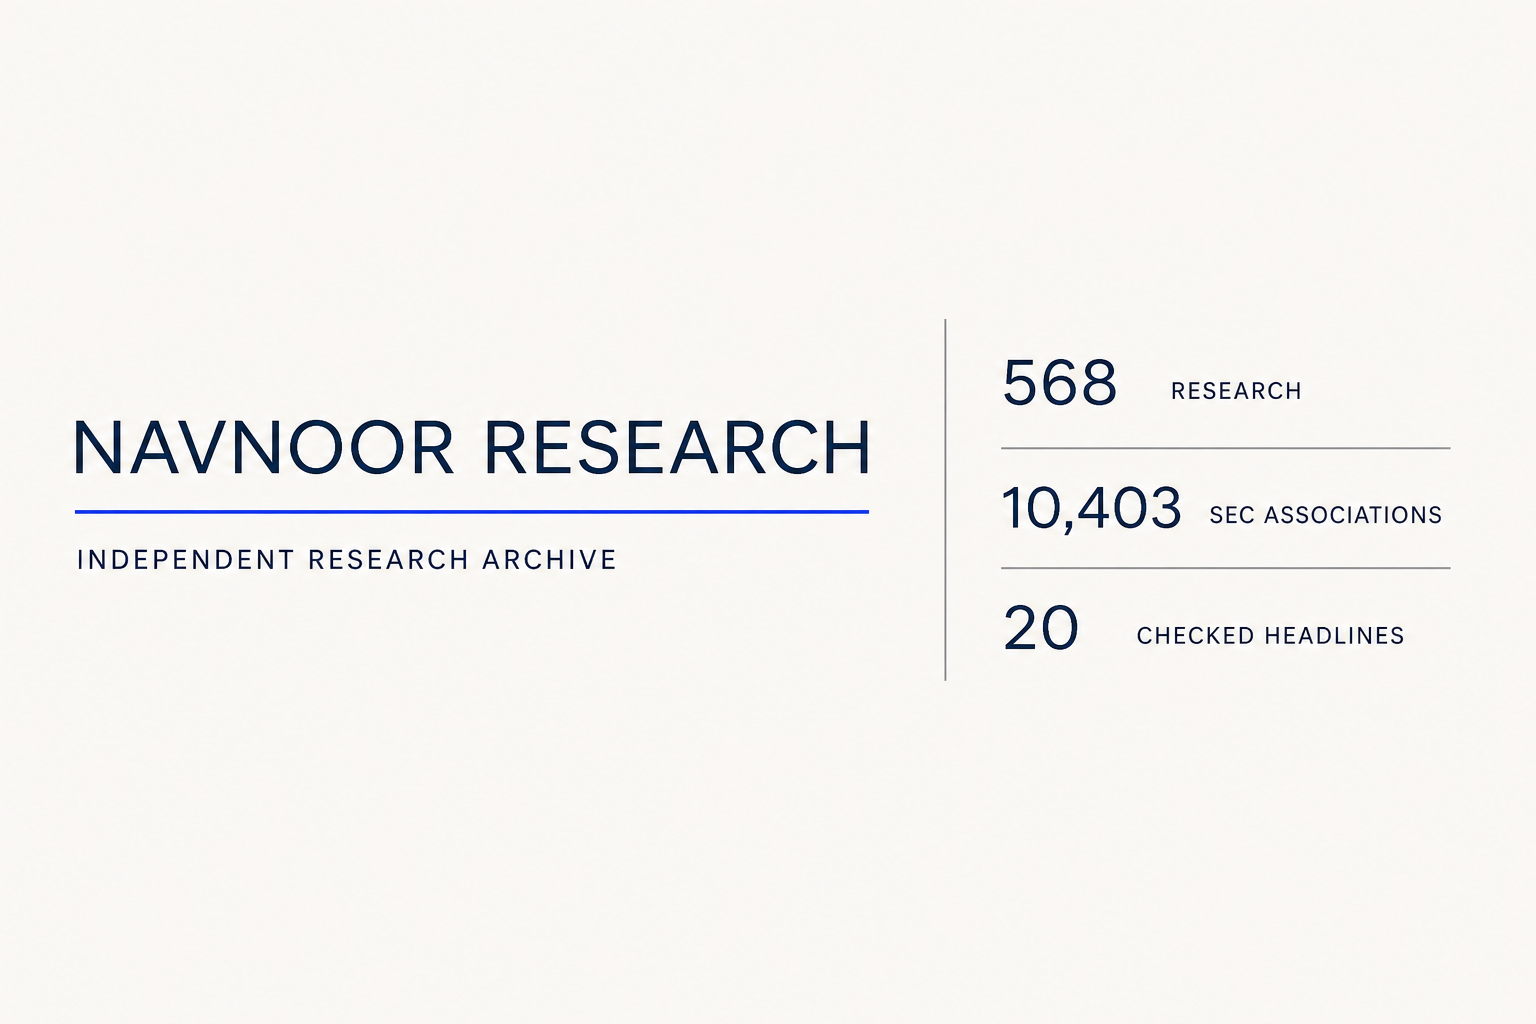
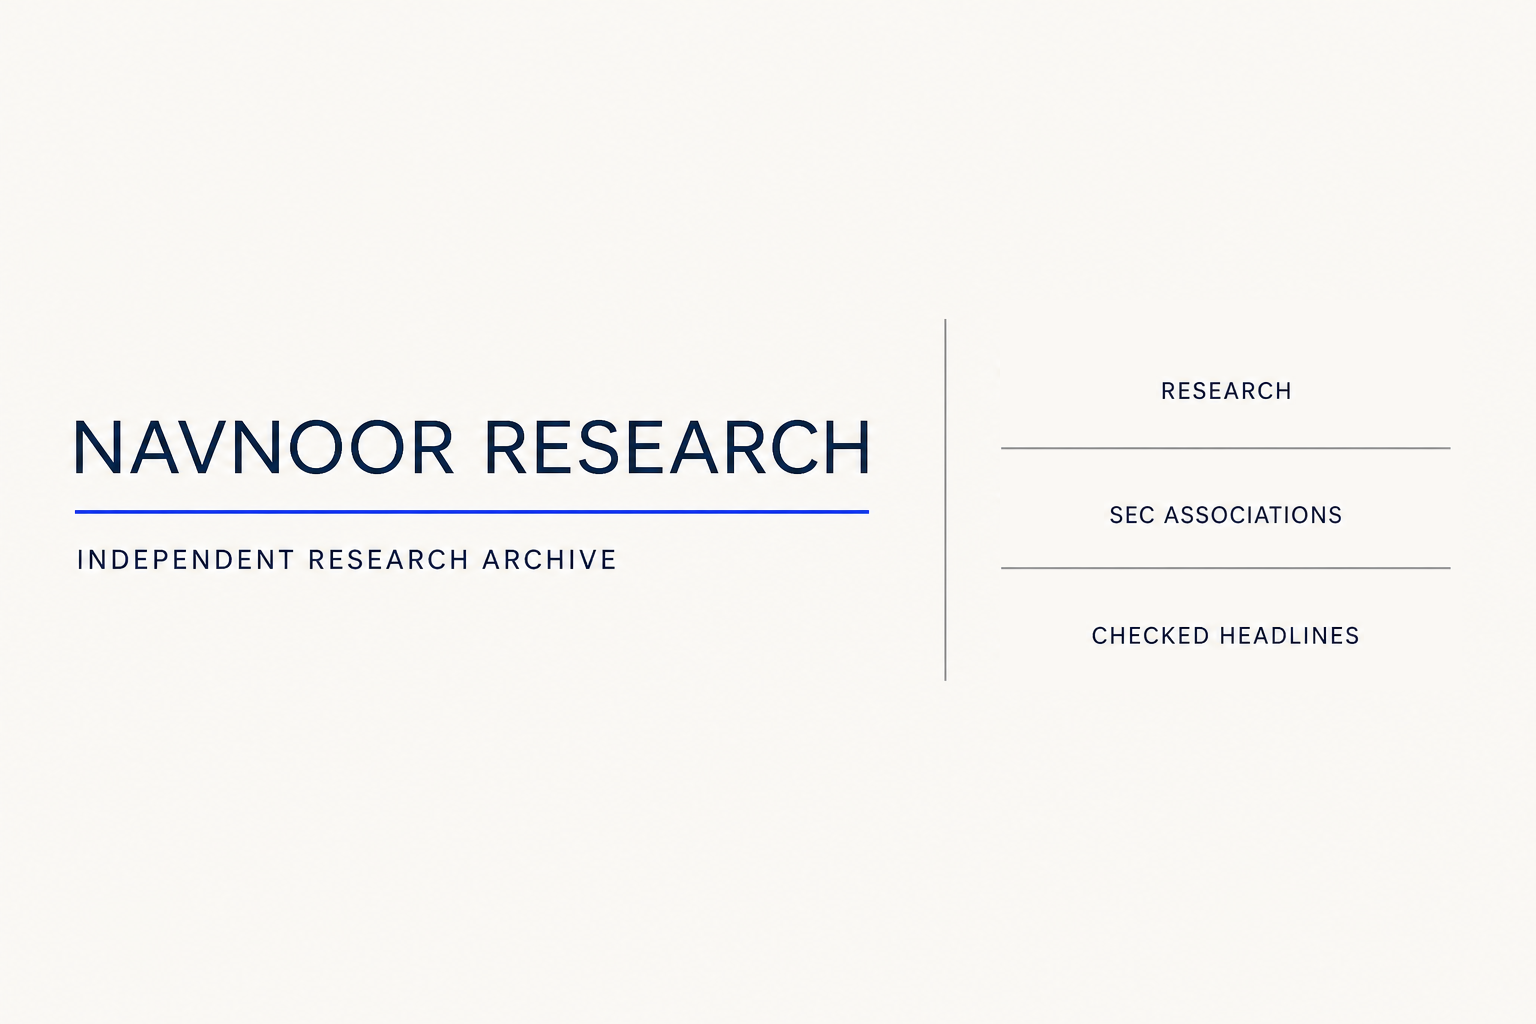
Unpin release counts so the scheduled refresh can succeed
Every "Refresh Checked Data" run has failed since the workflow was
created. The job imports the public archive, which has grown to 569
records, but the corpus size was pinned as a literal 568 in five test
modules and in the social card gate, so a successful data refresh was
guaranteed to fail the build it fed.

Replace the literals with the invariant they were standing in for: the
seed publications, the three manifested counts, and the research
projection must all agree. That is stronger than the magic number and
tolerates growth.

The social card burned 568 / 10,403 / 20 into its pixels and build_site
refused to build unless the live counts matched exactly. Since social
platforms cache a scraped card for days, a number in those pixels could
only ever be stale, so remove the numerals from the card and publish the
exact live counts in og:/twitter:description, which is regenerated every
build and validated against the payload.

Also fix test_refresh_news, which pinned a fixed past ATTEMPTED_AT
against the real news snapshot; it would have broken CI on its own as
soon as a refresh recorded a newer success.

Refresh the seed, SEC, and headline data so the freshness watchdog,
which fails when a source has not been attempted in 12 hours, stops
reporting the staleness caused by the blocked refresh.

diff --git a/test_corpus.py b/test_corpus.py
@@ -136,9 +136,10 @@ class TestSeedTransactionLoading(unittest.TestCase):
             manifest.write_bytes(self.manifest_bytes)
             with pub_patch, manifest_patch:
                 records, document, provenance = corpus.load_index()
-        self.assertEqual(len(records), 568)
+        manifested = json.loads(self.manifest_bytes.decode("utf-8"))["counts"]["records"]
+        self.assertEqual(len(records), manifested)
         self.assertEqual(records, document["records"])
-        self.assertEqual(provenance["counts"]["records"], 568)
+        self.assertEqual(provenance["counts"]["records"], manifested)
 
 
 class TestCurrentCorpus(unittest.TestCase):
@@ -153,14 +154,22 @@ class TestCurrentCorpus(unittest.TestCase):
     )
     NOMURA_BODY_LEAD = "spent five hours manufacturing order book pressure"
 
-    def test_current_seed_is_exactly_568_metadata_records(self):
+    def test_current_seed_agrees_with_every_manifested_metadata_count(self):
         records, document, provenance = corpus.load_index()
-        self.assertEqual(len(records), 568)
-        self.assertEqual(provenance["counts"]["records"], 568)
+        artifact = next(
+            entry
+            for entry in json.loads(
+                paths.SEED_MANIFEST_PATH.read_text(encoding="utf-8")
+            )["artifacts"]
+            if entry["path"] == "seed/publications.json"
+        )
+        self.assertGreater(len(records), 0)
+        self.assertEqual(provenance["counts"]["records"], len(records))
         self.assertEqual(
             provenance["source_snapshot"]["catalog_count"],
-            568,
+            len(records),
         )
+        self.assertEqual(artifact["record_count"], len(records))
         self.assertRegex(document["source_dataset_version"], r"^[0-9a-f]{64}$")
         self.assertRegex(
             provenance["source_snapshot"]["revision"],
@@ -187,7 +196,8 @@ class TestCurrentCorpus(unittest.TestCase):
     def test_import_is_deterministic_newest_first_and_metadata_only(self):
         first, stats = corpus.import_articles()
         second, second_stats = corpus.import_articles()
-        self.assertEqual(len(first), 568)
+        seeded, _document, _provenance = corpus.load_index()
+        self.assertEqual(len(first), len(seeded))
         self.assertEqual(stats, second_stats)
         self.assertEqual(
             [article.to_json() for article in first],
@@ -205,8 +215,8 @@ class TestCurrentCorpus(unittest.TestCase):
             reverse=True,
         )
         self.assertEqual(first, expected)
-        self.assertEqual(stats["read"], 568)
-        self.assertEqual(stats["published"], 568)
+        self.assertEqual(stats["read"], len(seeded))
+        self.assertEqual(stats["published"], len(seeded))
 
 
 if __name__ == "__main__":

diff --git a/test_build_site.py b/test_build_site.py
@@ -15,7 +15,7 @@ from pathlib import Path
 import build_site
 import validate_data
 import validate_release
-from navnoor_research import manifest, render
+from navnoor_research import jsonio, manifest, paths, render
 
 ROOT = Path(__file__).resolve().parent
 REVISION = "a" * 40
@@ -254,7 +254,10 @@ class TestBuild(unittest.TestCase):
         self.assertLess(len(json.dumps(public, separators=(",", ":")).encode()), 1_800_000)
         nvda = [row for row in public["companies"] if row[1] == "NVDA"]
         self.assertTrue(nvda)
-        self.assertEqual(len(research["research"]), 568)
+        self.assertEqual(
+            len(research["research"]),
+            len(jsonio.load(paths.PUBLICATIONS_PATH)["records"]),
+        )
 
     def test_bundle_contains_no_prohibited_source_material(self):
         with tempfile.TemporaryDirectory() as tmp:
@@ -281,15 +284,25 @@ class TestBuild(unittest.TestCase):
                               if not entry["path"].startswith("og-"))
             self.assertLessEqual(interactive, validate_release.INTERACTIVE_BUDGET)
 
-    def test_social_card_bytes_are_bound_to_the_current_release_counts(self):
-        payload = build_site.checked_social_card(build_site.SOCIAL_CARD_COUNTS)
+    def test_social_card_is_the_reviewed_asset_and_states_no_release_counts(self):
+        payload = build_site.checked_social_card()
         self.assertEqual(
             build_site.sha256_hex(payload),
             build_site.SOCIAL_CARD_SHA256,
         )
-        for drifted in ((569, 10_403, 20), (568, 10_404, 20), (568, 10_403, 19)):
-            with self.assertRaisesRegex(ValueError, "do not match"):
-                build_site.checked_social_card(drifted)
+        self.assertFalse(hasattr(build_site, "SOCIAL_CARD_COUNTS"))
+
+    def test_shared_description_states_the_exact_live_release_counts(self):
+        facts = render.describe(569, 10_403, 20)
+        self.assertEqual(
+            facts,
+            "569 source-linked research records, 10,403 SEC company/ticker "
+            "associations, and 20 checked headlines from reviewed public sources.",
+        )
+        html = render.render(TestRender.ASSETS, REVISION, 569, 10_403, 20, 2, 1)
+        for shared in ('property="og:description"', 'name="twitter:description"'):
+            self.assertIn(f'<meta {shared} content="{facts}">', html)
+        self.assertIn(f'<meta name="description" content="{render.DESCRIPTION}">', html)
 
     def test_cli_has_no_output_path_control(self):
         with tempfile.TemporaryDirectory() as tmp:

diff --git a/validate_release.py b/validate_release.py
@@ -6,11 +6,12 @@ from __future__ import annotations
 import argparse
 import re
 import sys
+from html import escape
 from typing import Any
 
 import build_site
 import validate_data
-from navnoor_research import jsonio, manifest, paths
+from navnoor_research import jsonio, manifest, paths, render
 from navnoor_research.fingerprint import sha256_hex
 
 TOTAL_BUDGET = 2_500_000
@@ -167,13 +168,14 @@ def validate(expected_revision: str) -> tuple[dict[str, Any], list[str]]:
             expected_counts["headlines"],
         ]:
             problems.append("institutional index ledger counts are not the exact payload counts")
-        social_counts = (
+        expected_facts = render.describe(
             expected_counts["research"],
             expected_counts["companies"],
             expected_counts["headlines"],
         )
-        if social_counts != build_site.SOCIAL_CARD_COUNTS:
-            problems.append("reviewed social-card facts do not match the release counts")
+        for shared in ('property="og:description"', 'name="twitter:description"'):
+            if f'<meta {shared} content="{escape(expected_facts)}">' not in html:
+                problems.append(f"{shared} does not state the exact release counts")
         source_issue_count = sum(
             source["status"] != "ok" for source in news["sources"].values()
         )
@@ -183,7 +185,7 @@ def validate(expected_revision: str) -> tuple[dict[str, Any], list[str]]:
         og_name = names.get("og", "")
         if og_name and (site / og_name).is_file():
             if sha256_hex((site / og_name).read_bytes()) != build_site.SOCIAL_CARD_SHA256:
-                problems.append("social card is not the reviewed count-bound asset")
+                problems.append("social card is not the reviewed asset")
     except (OSError, ValueError) as exc:
         problems.append(f"release payload validation failed: {exc}")
 

diff --git a/build_site.py b/build_site.py
@@ -19,14 +19,17 @@ from navnoor_research.schema import COMPANY_SCHEMA_VERSION, TAXONOMY_SCHEMA_VERS
 STAGING_DIR = paths.ROOT / ".site-build"
 REVISION_RE = re.compile(r"(?:[0-9a-f]{40}|local-[a-z0-9-]{1,40})")
 PUBLIC_COMPANY_FIELDS = ("cik", "ticker", "exchange", "name")
-SOCIAL_CARD_COUNTS = (568, 10_403, 20)
[2 lines of base64/hex data omitted]
 
 
-def checked_social_card(counts: tuple[int, int, int]) -> bytes:
-    """Bind the reviewed factual card to the exact counts printed in its pixels."""
-    if counts != SOCIAL_CARD_COUNTS:
-        raise ValueError("social card facts do not match the current release counts")
+def checked_social_card() -> bytes:
+    """Return the reviewed social card.
+
+    The card states no release counts. Counts change on every scheduled refresh,
+    and social platforms cache a scraped card for days, so a number burned into
+    these pixels could only ever be stale. The exact live counts are published in
+    the regenerated og:description instead, next to this card.
+    """
     path = paths.ASSETS_DIR / "og.png"
     if not path.is_file():
         raise ValueError("reviewed social card is missing")
@@ -94,12 +97,7 @@ def build_into(out_dir: Path, revision: str) -> dict[str, Any]:
     emit("taxonomy", "taxonomy.json", jsonio.dumps(taxonomy).encode("utf-8"))
     emit("css", "app.css", (paths.ASSETS_DIR / "app.css").read_bytes())
     emit("js", "app.js", (paths.ASSETS_DIR / "app.js").read_bytes())
-    social_counts = (
-        len(research["research"]),
-        len(companies_public["companies"]),
-        len(news["items"]),
-    )
-    emit("og", "og.png", checked_social_card(social_counts))
+    emit("og", "og.png", checked_social_card())
 
     html = render.render(
         written,

diff --git a/test_refresh_news.py b/test_refresh_news.py
@@ -13,18 +13,19 @@ import refresh_news
 from navnoor_research import jsonio, newsstore, paths
 from navnoor_research.adapters import gdelt, rss
 
-ATTEMPTED_AT = "2026-08-22T19:30:00Z"
-
 
 class TestRefreshNewsFailures(unittest.TestCase):
     def test_all_source_failure_records_attempts_and_retains_items(self):
         previous = jsonio.load(paths.NEWS_PATH)
+        # A refresh attempt happens now, never at a fixed instant that the stored
+        # snapshot can overtake once the scheduled refresh records a newer success.
+        attempted_at = newsstore.utc_now_iso()
         with tempfile.TemporaryDirectory() as tmp:
             target = Path(tmp) / "news.json"
             target.write_text(jsonio.dumps_pretty(previous), encoding="utf-8")
             with (
                 mock.patch.object(paths, "NEWS_PATH", target),
-                mock.patch.object(newsstore, "utc_now_iso", return_value=ATTEMPTED_AT),
+                mock.patch.object(newsstore, "utc_now_iso", return_value=attempted_at),
                 mock.patch.object(rss, "collect", side_effect=rss.FeedError("offline")),
                 mock.patch.object(gdelt, "collect", side_effect=gdelt.GdeltError("offline")),
                 contextlib.redirect_stdout(io.StringIO()),
@@ -41,7 +42,7 @@ class TestRefreshNewsFailures(unittest.TestCase):
         })
         for source_id, state in current["sources"].items():
             self.assertEqual(state["status"], "error", source_id)
-            self.assertEqual(state["last_attempt_at"], ATTEMPTED_AT, source_id)
+            self.assertEqual(state["last_attempt_at"], attempted_at, source_id)
             self.assertEqual(
                 state["last_success_at"],
                 previous["sources"][source_id]["last_success_at"],

diff --git a/navnoor_research/render.py b/navnoor_research/render.py
@@ -21,6 +21,17 @@ DESCRIPTION = (
     "Search source-linked research metadata, discover SEC company/ticker associations, "
     "and scan checked market news from reviewed public sources."
 )
+
+
+def describe(research_count: int, company_count: int, headline_count: int) -> str:
+    """State the exact release counts where they can be regenerated every build."""
+    return (
+        f"{research_count:,} source-linked research records, "
+        f"{company_count:,} SEC company/ticker associations, and "
+        f"{headline_count:,} checked headlines from reviewed public sources."
+    )
+
+
 PUBLIC_ORIGIN = "https://navnoorbawa.github.io/navnoor-research/"
 
 
@@ -34,6 +45,7 @@ def render(
     source_issue_count: int,
 ) -> str:
     """Render a small shell; every searchable record stays in fingerprinted JSON."""
+    description = describe(research_count, company_count, headline_count)
     og = ""
     if assets.get("og"):
         og_name = escape(assets["og"])
@@ -53,10 +65,10 @@ def render(
 <meta name="theme-color" content="#07131e">
 <meta property="og:type" content="website">
 <meta property="og:title" content="Navnoor Research">
-<meta property="og:description" content="{escape(DESCRIPTION)}">
+<meta property="og:description" content="{escape(description)}">
 <meta name="twitter:card" content="summary_large_image">
 <meta name="twitter:title" content="Navnoor Research">
-<meta name="twitter:description" content="{escape(DESCRIPTION)}">
+<meta name="twitter:description" content="{escape(description)}">
 <meta property="og:url" content="{PUBLIC_ORIGIN}">
 <link rel="canonical" href="{PUBLIC_ORIGIN}">
 {og}<title>Navnoor Research — Search, Research, Market News</title>

diff --git a/test_validation.py b/test_validation.py
@@ -35,7 +35,8 @@ class TestTrackedDataContracts(unittest.TestCase):
 
     def test_full_fixed_path_validation_succeeds(self):
         research, companies, news = validate_data.load_and_validate()
-        self.assertEqual(len(research["research"]), 568)
+        seeded = jsonio.load(paths.PUBLICATIONS_PATH)["records"]
+        self.assertEqual(len(research["research"]), len(seeded))
         self.assertGreaterEqual(len(companies["items"]), 10_000)
         self.assertLessEqual(len(news["items"]), newsstore.MAX_ITEMS)
         validate_data.validate_source_matrix(self.sources)
@@ -73,7 +74,10 @@ class TestTrackedDataContracts(unittest.TestCase):
     def test_seed_projection_contains_only_reviewed_fields(self):
         document = jsonio.load(paths.PUBLICATIONS_PATH)
         self.assertEqual(document["rights_profile"], seed.RIGHTS_PROFILE)
-        self.assertEqual(len(document["records"]), 568)
+        self.assertEqual(
+            len(document["records"]),
+            jsonio.load(paths.SEED_MANIFEST_PATH)["counts"]["records"],
+        )
         for record in document["records"]:
             self.assertEqual(set(record), seed.RECORD_KEYS)
             self.assertFalse(set(record) & validate_data.FORBIDDEN_FIELDS)

diff --git a/test_client_runtime.py b/test_client_runtime.py
@@ -2,6 +2,7 @@
 
 from __future__ import annotations
 
+import json
 import subprocess
 import tempfile
 import unittest
@@ -281,10 +282,13 @@ const assert = require("node:assert/strict");
 const fs = require("node:fs");
 const app = require(process.argv[1]);
 const document = JSON.parse(fs.readFileSync(process.argv[2], "utf8"));
-assert.equal(app.validateResearch(document).research.length, 568);
+assert.equal(app.validateResearch(document).research.length, Number(process.argv[3]));
 """
+        expected = json.loads(
+            (ROOT / "seed" / "manifest.json").read_text(encoding="utf-8")
+        )["counts"]["records"]
         result = subprocess.run(
-            ["node", "-e", script, str(APP), str(RESEARCH_DATA)],
+            ["node", "-e", script, str(APP), str(RESEARCH_DATA), str(expected)],
             cwd=ROOT,
             capture_output=True,
             text=True,

diff --git a/README.md b/README.md
@@ -8,7 +8,7 @@ destinations:
 - **Search** — discover published research, checked headlines, and SEC-backed
   company/ticker associations from a company, ticker, fund, regulator, index,
   asset, or topic.
-- **Research** — search and filter 568 source-linked publication records by
+- **Research** — search and filter every source-linked publication record by
   topic and access state.
 - **Market News** — scan retained headline metadata from reviewed public
   sources with publisher, discovery attribution, and an honest status for each
